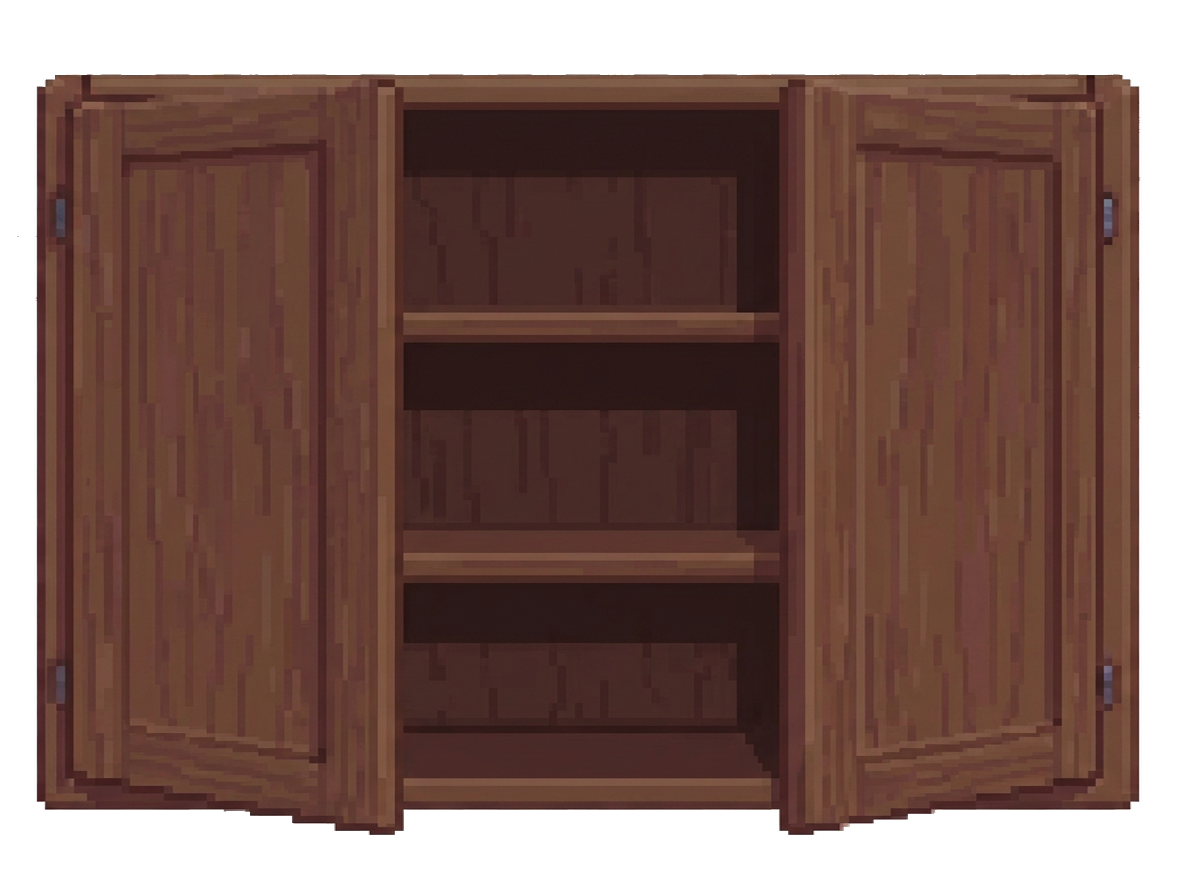
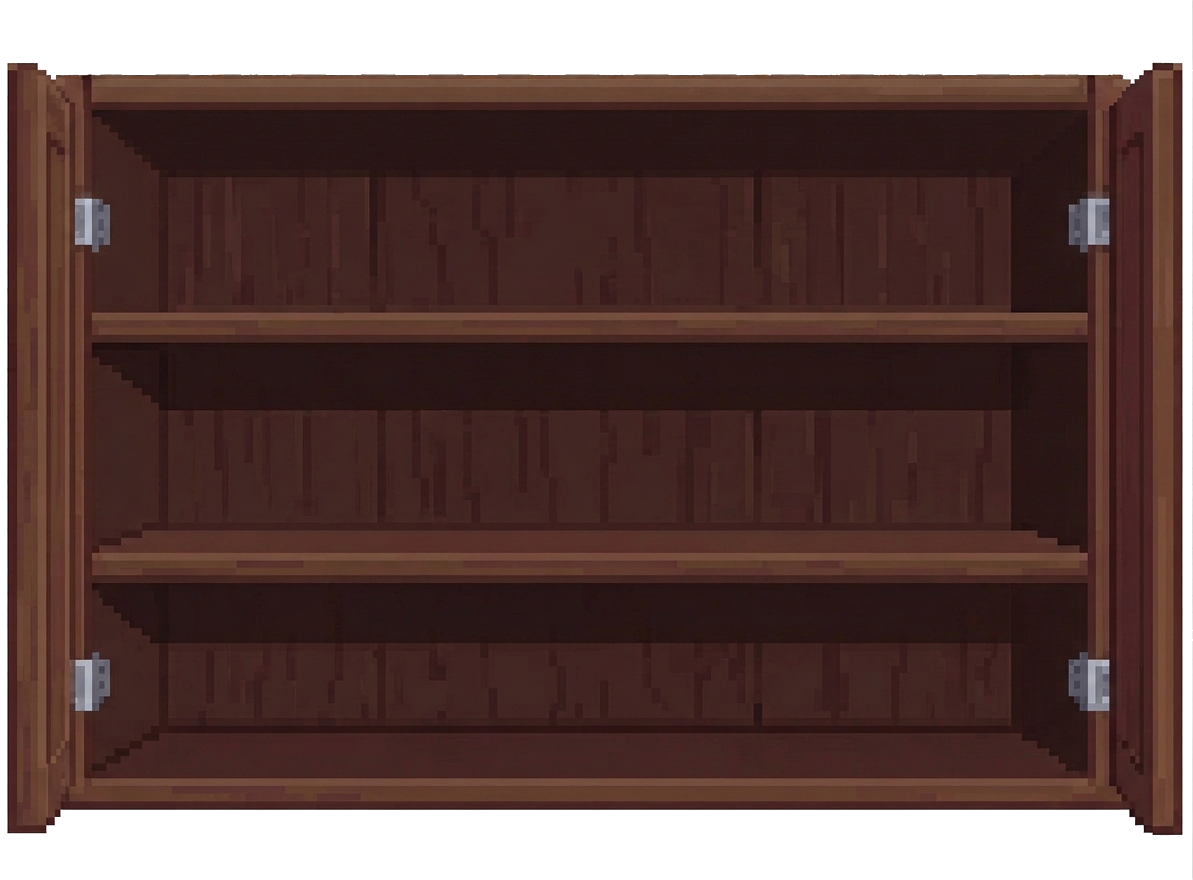
Refine cabinet close-up and flashlight HUD

diff --git a/scripts/ui/GameUI.cs b/scripts/ui/GameUI.cs
@@ -37,6 +37,7 @@ public partial class GameUI : CanvasLayer
     private Control _objectivePanel;
     private Control _statusPanel;
     private TextureRect _gameplayTorchHand;
+    private Panel _gameplayTorchLensIndicator;
     private float _torchHandWalkTime;
     private Vector2 _torchHandSway;
     private Label _controlsLabel;
@@ -1833,8 +1834,8 @@ public partial class GameUI : CanvasLayer
         _verbPanel.AnchorBottom = 1f;
         _verbPanel.OffsetLeft = -78;
         _verbPanel.OffsetRight = 78;
-        _verbPanel.OffsetTop = -76;
-        _verbPanel.OffsetBottom = -20;
+        _verbPanel.OffsetTop = -58;
+        _verbPanel.OffsetBottom = -2;
         _verbPanel.ClipContents = true;
 
         var row = new HBoxContainer
@@ -1993,7 +1994,7 @@ public partial class GameUI : CanvasLayer
             _memoryBarTween.Kill();
 
         float halfWidth = width * 0.5f;
-        _verbPanel.OffsetTop = expanded ? -68f : -84f;
+        _verbPanel.OffsetTop = expanded ? -50f : -66f;
         _verbPanel.Modulate = new Color(1f, 1f, 1f, 0.62f);
         _memoryBarTween = CreateTween();
         _memoryBarTween.SetPauseMode(Tween.TweenPauseMode.Process);
@@ -2001,7 +2002,7 @@ public partial class GameUI : CanvasLayer
         _memoryBarTween.SetEase(expanded ? Tween.EaseType.Out : Tween.EaseType.In);
         _memoryBarTween.TweenProperty(_verbPanel, "offset_left", -halfWidth, 0.2f);
         _memoryBarTween.Parallel().TweenProperty(_verbPanel, "offset_right", halfWidth, 0.2f);
-        _memoryBarTween.Parallel().TweenProperty(_verbPanel, "offset_top", -76f, 0.2f);
+        _memoryBarTween.Parallel().TweenProperty(_verbPanel, "offset_top", -58f, 0.2f);
         _memoryBarTween.Parallel().TweenProperty(_verbPanel, "modulate:a", 1f, 0.2f);
     }
 
@@ -4552,9 +4553,27 @@ public partial class GameUI : CanvasLayer
         _gameplayTorchHand.OffsetRight = 0f;
         _gameplayTorchHand.OffsetTop = -320f * texture.GetHeight() / Mathf.Max(texture.GetWidth(), 1f);
         _gameplayTorchHand.OffsetBottom = 0f;
-        // Layer 1 puts the hand over the room's darkness, but beneath
-        // the speech bubble (2) and the HUD proper (90).
+        _gameplayTorchLensIndicator = new Panel
+        {
+            Name = "FlashlightLensOnIndicator",
+            Visible = false,
+            MouseFilter = Control.MouseFilterEnum.Ignore,
+            TextureFilter = CanvasItem.TextureFilterEnum.Nearest,
+        };
+        var lensStyle = new StyleBoxFlat
+        {
+            BgColor = new Color(1f, 0.97f, 0.82f, 0.96f),
+            BorderColor = new Color(1f, 0.84f, 0.48f, 0.9f),
+        };
+        lensStyle.SetBorderWidthAll(1);
+        lensStyle.SetCornerRadiusAll(8);
+        _gameplayTorchLensIndicator.AddThemeStyleboxOverride("panel", lensStyle);
+        // Keep the lit lens as a sibling, not a child, so the hand's
+        // beam-based dimming cannot wash out the on-state indicator.
+        // Layer 1 puts both over the room's darkness, below the speech
+        // bubble (2) and the HUD proper (90).
         _blackoutLayer.AddChild(_gameplayTorchHand);
+        _blackoutLayer.AddChild(_gameplayTorchLensIndicator);
     }
 
     private void UpdateGameplayFlashlightHand(float delta)
@@ -4596,8 +4615,7 @@ public partial class GameUI : CanvasLayer
             _torchHandWalkTime += delta * Mathf.Tau / stepSeconds;
 
         Vector2 bob = walking && !reducedMotion
-            ? new Vector2(Mathf.Sin(_torchHandWalkTime * 0.5f) * 3.5f,
-                Mathf.Abs(Mathf.Sin(_torchHandWalkTime)) * 2.25f)
+            ? new Vector2(Mathf.Sin(_torchHandWalkTime) * 3.5f, 0f)
             : Vector2.Zero;
         Vector2 viewSize = GetViewport().GetVisibleRect().Size;
         Vector2 mouse = GetViewport().GetMousePosition();
@@ -4620,6 +4638,19 @@ public partial class GameUI : CanvasLayer
         _gameplayTorchHand.OffsetRight = -rightInset + _torchHandSway.X;
         _gameplayTorchHand.OffsetTop = -height - bottomInset + _torchHandSway.Y;
         _gameplayTorchHand.OffsetBottom = -bottomInset + _torchHandSway.Y;
+        if (_gameplayTorchLensIndicator != null)
+        {
+            const float lensX = 0.16f;
+            const float lensY = 0.15f;
+            _gameplayTorchLensIndicator.Size = new Vector2(12f, 12f) * handScale;
+            Vector2 handTopLeft = new(
+                viewSize.X - width - rightInset + _torchHandSway.X,
+                viewSize.Y - height - bottomInset + _torchHandSway.Y);
+            _gameplayTorchLensIndicator.Position = handTopLeft + new Vector2(
+                width * lensX - _gameplayTorchLensIndicator.Size.X * 0.5f,
+                height * lensY - _gameplayTorchLensIndicator.Size.Y * 0.5f);
+            _gameplayTorchLensIndicator.Visible = show;
+        }
 
         Node activeRoom = SceneManager.Instance?.CurrentScene;
         Vector2 beamCenter = _blackoutOverlay?.FlashlightBeamPosition ?? mouse;

diff --git a/scripts/world/room1/Puzzle/BrassKey1.cs b/scripts/world/room1/Puzzle/BrassKey1.cs
@@ -140,22 +140,12 @@ public partial class BrassKey1 : Area2D
 			return;
 
 		_collecting = true;
-		bool firstTime;
-		if (GameState.Instance != null)
-		{
-			firstTime = GameState.Instance.CollectShard(0, FragmentText);
-		}
-		else
-		{
-			firstTime = !Globals.SHARDS_COLLECTED[0];
-			Globals.SHARDS_COLLECTED[0] = true;
-		}
+		bool firstTime = gs != null
+			? !gs.IsShardRecovered(0)
+			: !Globals.SHARDS_COLLECTED[0];
 
-		// It leaves the drawer the instant it is hers — the palm
-		// reveal plays over a drawer that is already empty.
-		if (firstTime)
-			HideTaken(_brassSprite, _brassShape);
-
+		// Keep the key uncollected and visible through its spoken memory.
+		// The fragment/held moment starts only after the dialogue ends.
 		await ToSignal(GetTree(), SceneTree.SignalName.ProcessFrame);
 
 		if (firstTime)
@@ -168,6 +158,19 @@ public partial class BrassKey1 : Area2D
 		{
 			// Passing through again on a later visit — keep it brief.
 			await Dialogue.ShowText(this, "\"That's not something you notice until it's gone.\"", 2.5f, GlobalPosition.X, GlobalPosition.Y, FontPath, 26);
+		}
+
+		if (!GodotObject.IsInstanceValid(this) || !IsInsideTree())
+			return;
+
+		if (firstTime)
+		{
+			if (gs != null)
+				firstTime = gs.CollectShard(0, FragmentText);
+			else
+				Globals.SHARDS_COLLECTED[0] = true;
+			if (firstTime)
+				HideTaken(_brassSprite, _brassShape);
 		}
 
 		// The fragment opens the way on; it does not take it for her.

diff --git a/scripts/world/room2/Puzzle/Room2Puzzle.cs b/scripts/world/room2/Puzzle/Room2Puzzle.cs
@@ -51,7 +51,8 @@ public partial class Room2Puzzle : Area2D
 		if (_padlock != null)
 		{
 			_padlock.Visible = true;
-			_padlock.Position += new Vector2(-72f, 0f);
+			// Keep the close-up and every input box centered; the typed
+			// letters alone are nudged left inside their boxes below.
 			_padlockHome = _padlock.Position;
 		}
 
@@ -63,7 +64,10 @@ public partial class Room2Puzzle : Area2D
 		};
 		inputStyle.SetBorderWidthAll(2);
 		inputStyle.SetCornerRadiusAll(3);
-		inputStyle.SetContentMarginAll(5);
+		inputStyle.ContentMarginLeft = 5f;
+		inputStyle.ContentMarginRight = 21f;
+		inputStyle.ContentMarginTop = 5f;
+		inputStyle.ContentMarginBottom = 5f;
 		var focusStyle = new StyleBoxFlat
 		{
 			BgColor = new Color(0.96f, 0.88f, 0.7f, 1f),
@@ -71,7 +75,10 @@ public partial class Room2Puzzle : Area2D
 		};
 		focusStyle.SetBorderWidthAll(3);
 		focusStyle.SetCornerRadiusAll(3);
-		focusStyle.SetContentMarginAll(4);
+		focusStyle.ContentMarginLeft = 4f;
+		focusStyle.ContentMarginRight = 20f;
+		focusStyle.ContentMarginTop = 4f;
+		focusStyle.ContentMarginBottom = 4f;
 		var title = GetNodeOrNull<Label>("Padlock/Title");
 		if (title != null && inputFont != null)
 		{

diff --git a/scripts/world/room6/HedgeMaze.cs b/scripts/world/room6/HedgeMaze.cs
@@ -2401,6 +2401,16 @@ public partial class HedgeMaze : Node2D
                 -TorchSpriteGrip.Y * spriteHeight,
                 spriteWidth, spriteHeight),
             false, TorchTint(level));
+        if (_flashlightOn)
+        {
+            // A tiny on-state glint stays inside the lens itself: it
+            // signals that the torch is open without adding another pool.
+            Vector2 lens = new(
+                (TorchSpriteLens.X - TorchSpriteGrip.X) * spriteWidth,
+                (TorchSpriteLens.Y - TorchSpriteGrip.Y) * spriteHeight);
+            DrawCircle(lens, 12f * handScale, new Color(1f, 0.9f, 0.62f, 0.22f));
+            DrawCircle(lens, 6f * handScale, new Color(1f, 0.98f, 0.84f, 0.9f));
+        }
         DrawSetTransform(Vector2.Zero, 0f, Vector2.One);
 
     }
